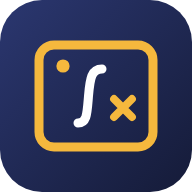
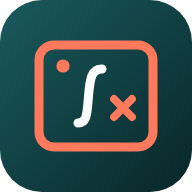
New colour theme: deep teal with coral
Claude-Session: https://claude.ai/code/session_01CqFkspLbgbr14JNBsM85ut

diff --git a/style.css b/style.css
@@ -5,31 +5,31 @@
 
 /* ---------- tokens ---------- */
 :root {
-  --bg: #f4f5f9; --panel: #ffffff; --panel2: #eef0f7; --ink: #161a2c; --muted: #5f6680; --line: #e2e5ef; --line2: #cfd4e3;
-  --side: #1c2547; --side2: #121832; --side-ink: #d3d9ef; --leaf: #f5b83d; --leaf-ink: #3b2600; --pri: #1c2547;
+  --bg: #f3f7f7; --panel: #ffffff; --panel2: #e9f1f1; --ink: #132326; --muted: #58706f; --line: #dde8e8; --line2: #c7d8d8;
+  --side: #0f3d40; --side2: #082628; --side-ink: #cfe6e4; --leaf: #ff7a5c; --leaf-ink: #3a0e02; --pri: #0f3d40;
   --accent: var(--leaf); --accent-ink: var(--leaf-ink);
   --warn-bg: #fef3c7; --warn-ink: #8a4b07; --danger: #b6412c;
   --fig: #ffffff; --radius: 16px; --r-sm: 10px;
-  --shadow-sm: 0 1px 2px rgb(17 22 44 / .05);
-  --shadow: 0 1px 2px rgb(17 22 44 / .04), 0 8px 24px -14px rgb(20 26 60 / .28);
-  --shadow-lift: 0 2px 4px rgb(17 22 44 / .05), 0 16px 32px -16px rgb(20 26 60 / .35);
+  --shadow-sm: 0 1px 2px rgb(10 36 38 / .05);
+  --shadow: 0 1px 2px rgb(10 36 38 / .04), 0 8px 24px -14px rgb(8 50 52 / .28);
+  --shadow-lift: 0 2px 4px rgb(10 36 38 / .05), 0 16px 32px -16px rgb(8 50 52 / .35);
   --serif: Fraunces, Georgia, serif; --sans: "DM Sans", system-ui, sans-serif;
   --tabbar: 64px;
   color-scheme: light;
 }
 @media (prefers-color-scheme: dark) {
   :root:not([data-theme="light"]) {
-    --bg: #10131f; --panel: #181c2d; --panel2: #212639; --ink: #e8eaf4; --muted: #9ba2bd; --line: #292f45; --line2: #363d57;
+    --bg: #0d1718; --panel: #142224; --panel2: #1b2d30; --ink: #e5f0ef; --muted: #93aead; --line: #24393b; --line2: #30494b;
     --warn-bg: #3d3214; --warn-ink: #f6d58a; --fig: #f8faf7; color-scheme: dark;
   }
 }
 @media (prefers-color-scheme: dark) {
   .lrow b, .tcard h3, .card h3 { filter: brightness(1.45) saturate(.9); }
-  button.dark { background: #33408a; border-color: #33408a; }
+  button.dark { background: #1b6b70; border-color: #1b6b70; }
   .tabbar button.on { color: var(--leaf); }
 }
 :root[data-theme="dark"] {
-  --bg: #10131f; --panel: #181c2d; --panel2: #212639; --ink: #e8eaf4; --muted: #9ba2bd; --line: #292f45; --line2: #363d57;
+  --bg: #0d1718; --panel: #142224; --panel2: #1b2d30; --ink: #e5f0ef; --muted: #93aead; --line: #24393b; --line2: #30494b;
   --warn-bg: #3d3214; --warn-ink: #f6d58a; --fig: #f8faf7; color-scheme: dark;
 }
 
@@ -43,9 +43,9 @@ button { cursor: pointer; border: 1px solid var(--line2); background: var(--pane
 button:hover { border-color: var(--pri); }
 button:disabled { opacity: .5; cursor: default; }
 button.primary { background: var(--leaf); color: var(--leaf-ink); border-color: var(--leaf); }
-button.primary:hover { background: #f8c860; border-color: #f8c860; }
+button.primary:hover { background: #ff9479; border-color: #ff9479; }
 button.dark { background: var(--pri); color: #fff; border-color: var(--pri); }
-button.dark:hover { background: #2a3666; }
+button.dark:hover { background: #17575b; }
 button.danger, .danger { color: var(--danger); }
 button.danger:hover { border-color: var(--danger); }
 button.link { border: none; background: none; padding: 4px 6px; color: var(--muted); font-weight: 500; }
@@ -68,10 +68,10 @@ aside { background: linear-gradient(175deg, var(--side), var(--side2)); color: #
 .brand h1 { margin: 0; font-size: 20px; line-height: 1.1; font-weight: 700; }
 .brand small { display: block; font-size: 12px; opacity: .65; margin-top: 2px; }
 #search { width: 100%; padding: 9px 12px; border-radius: var(--r-sm); border: 1px solid rgb(255 255 255 / .12); background: rgb(255 255 255 / .07); color: #fff; }
-#search::placeholder { color: #a8b1d6; }
-#search:focus { outline: none; border-color: var(--leaf); box-shadow: 0 0 0 3px rgb(245 184 61 / .3); }
+#search::placeholder { color: #9cc4c1; }
+#search:focus { outline: none; border-color: var(--leaf); box-shadow: 0 0 0 3px rgb(255 122 92 / .3); }
 #topics { display: flex; flex-direction: column; gap: 2px; }
-.nav-label { font-size: 11px; text-transform: uppercase; letter-spacing: .1em; color: #99a3cc; padding: 10px 12px 4px; }
+.nav-label { font-size: 11px; text-transform: uppercase; letter-spacing: .1em; color: #8dbab6; padding: 10px 12px 4px; }
 .node { display: contents; }
 .topic, .side-tools button, .more summary { display: flex; align-items: center; gap: 10px; width: 100%; text-align: left; background: none; border: 0;
   border-radius: var(--r-sm); color: var(--side-ink); padding: 8px 10px; font: 600 14.5px var(--sans); cursor: pointer; }
@@ -84,7 +84,7 @@ aside { background: linear-gradient(175deg, var(--side), var(--side2)); color: #
 .topic .ico, .side-tools span { width: 20px; text-align: center; font-size: 16px; flex: none; }
 .topic .nm { flex: 1; min-width: 0; }
 .topic .n { font-size: 12px; opacity: .6; font-weight: 500; }
-.topic.add { color: #a8b1d6; font-weight: 500; }
+.topic.add { color: #9cc4c1; font-weight: 500; }
 .side-tools { margin-top: auto; display: flex; flex-direction: column; gap: 2px; border-top: 1px solid rgb(255 255 255 / .1); padding-top: 10px; }
 .more { position: relative; }
 .more summary { list-style: none; }
@@ -179,7 +179,7 @@ a.card { color: inherit; text-decoration: none; cursor: pointer; }
 /* ---------- dialogs & forms ---------- */
 dialog { border: none; border-radius: 18px; padding: 0; background: var(--panel); color: var(--ink); width: min(1040px, calc(100vw - 24px));
   max-height: calc(100vh - 24px); box-shadow: 0 24px 64px rgb(0 0 0 / .32); }
-dialog::backdrop { background: rgb(10 12 28 / .55); backdrop-filter: blur(2px); }
+dialog::backdrop { background: rgb(4 20 22 / .55); backdrop-filter: blur(2px); }
 dialog.small { width: min(620px, calc(100vw - 24px)); }
 dialog.plan-dlg { width: min(760px, calc(100vw - 24px)); }
 .dlg-head { display: flex; align-items: flex-start; gap: 12px; padding: 18px 22px 12px; border-bottom: 1px solid var(--line); }
@@ -192,7 +192,7 @@ dialog.plan-dlg { width: min(760px, calc(100vw - 24px)); }
 .form label { display: grid; gap: 4px; font-weight: 600; font-size: .92rem; }
 .form small { font-weight: 400; color: var(--muted); }
 .form input[type=text], .form textarea, .form select, .blank-row input { padding: 9px 12px; border-radius: var(--r-sm); border: 1px solid var(--line2); background: var(--bg); font-weight: 400; }
-.form input[type=text]:focus, .form textarea:focus, .form select:focus, .blank-row input:focus { outline: none; border-color: var(--pri); box-shadow: 0 0 0 3px rgb(245 184 61 / .35); }
+.form input[type=text]:focus, .form textarea:focus, .form select:focus, .blank-row input:focus { outline: none; border-color: var(--pri); box-shadow: 0 0 0 3px rgb(255 122 92 / .35); }
 .form textarea { resize: vertical; min-height: 80px; }
 .row2 { display: grid; grid-template-columns: 1fr 1fr; gap: 14px; }
 .preview { background: var(--fig); border-radius: var(--r-sm); border: 1px solid var(--line); max-width: 360px; }
@@ -247,7 +247,7 @@ body.bot-open #bot-btn { display: none; }
 #bot-form textarea { flex: 1; resize: none; padding: 9px 12px; border-radius: var(--r-sm); border: 1px solid var(--line2); background: var(--bg); color: var(--ink); }
 
 /* ---------- small things ---------- */
-#toast { position: fixed; left: 50%; bottom: 24px; transform: translate(-50%, 140px); background: #161a2c; color: #fff; padding: 10px 18px;
+#toast { position: fixed; left: 50%; bottom: 24px; transform: translate(-50%, 140px); background: #132326; color: #fff; padding: 10px 18px;
   border-radius: 12px; transition: transform .25s; z-index: 50; max-width: calc(100vw - 32px); box-shadow: var(--shadow-lift); }
 #toast.show { transform: translate(-50%, 0); }
 #toast:empty { display: none; }
@@ -263,7 +263,7 @@ body.bot-open #bot-btn { display: none; }
 .pcard b { font-size: .95rem; line-height: 1.3; }
 .pcard small { color: var(--muted); font-size: .78rem; }
 .pcard .tag { position: absolute; top: 8px; right: 8px; font-size: .72rem; font-weight: 700; padding: 2px 8px; border-radius: 999px;
-  background: rgb(255 255 255 / .92); color: #161a2c; box-shadow: var(--shadow-sm); }
+  background: rgb(255 255 255 / .92); color: #132326; box-shadow: var(--shadow-sm); }
 .pcard .tag.mine { left: 8px; right: auto; background: var(--leaf); color: var(--leaf-ink); }
 .strip { display: grid; grid-auto-flow: column; grid-auto-columns: minmax(170px, 210px); gap: 12px; overflow-x: auto; padding-bottom: 6px; scroll-snap-type: x mandatory; }
 .strip .pcard { scroll-snap-align: start; }
@@ -312,7 +312,7 @@ body.viewing { overflow: hidden; }
   .appbar .brand { padding: 0; flex: none; }
   .appbar .brand b { font: 700 17px var(--serif); }
   #msearch { flex: 1; min-width: 0; padding: 8px 12px; border-radius: 999px; border: 1px solid rgb(255 255 255 / .14); background: rgb(255 255 255 / .08); color: #fff; }
-  #msearch::placeholder { color: #a8b1d6; }
+  #msearch::placeholder { color: #9cc4c1; }
   /* the sidebar becomes a drawer */
   aside { position: fixed; z-index: 45; top: 0; bottom: 0; left: 0; width: min(320px, 86vw); height: auto; transform: translateX(-102%);
     transition: transform .22s ease; box-shadow: 20px 0 40px -20px rgb(0 0 0 / .5); padding-bottom: calc(var(--tabbar) + 10px); }
@@ -327,7 +327,7 @@ body.viewing { overflow: hidden; }
     font-size: 11.5px; font-weight: 600; color: var(--muted); }
   .tabbar svg { width: 22px; height: 22px; fill: none; stroke: currentColor; stroke-width: 1.8; stroke-linejoin: round; stroke-linecap: round; }
   .tabbar button.on { color: var(--pri); }
-  .tabbar button.on svg { fill: rgb(245 184 61 / .45); }
+  .tabbar button.on svg { fill: rgb(255 122 92 / .45); }
   .wide-only { display: none !important; }
   .bar { margin-bottom: 10px; }
   .tcard { padding: 13px 15px; }

diff --git a/index.html b/index.html
@@ -5,7 +5,7 @@
   <meta name="viewport" content="width=device-width, initial-scale=1">
   <title>Specialist Study</title>
   <meta name="description" content="Photos of your Specialist Maths work, sorted into topics automatically, with notes underneath.">
-  <meta name="theme-color" content="#1c2547">
+  <meta name="theme-color" content="#0f3d40">
   <link rel="preconnect" href="https://fonts.googleapis.com">
   <link href="https://fonts.googleapis.com/css2?family=DM+Sans:wght@400;500;700&family=Fraunces:opsz,wght@9..144,500;9..144,600;9..144,700&display=swap" rel="stylesheet">
   <link rel="stylesheet" href="vendor/katex/katex.min.css">

diff --git a/sw.js b/sw.js
@@ -1,7 +1,7 @@
 // Service worker: lets the installed app open with no internet.
 // App files: network first, saved copy when offline. Photos never change, so once seen they come from the saved copy.
 // Bump CACHE on each release.
-const CACHE = 'specialist-study-v1';
+const CACHE = 'specialist-study-v2';
 const FILES = ['./', 'index.html', 'style.css', 'app.js', 'lib.js', 'manifest.webmanifest', 'icons/icon.svg', 'icons/icon-192.png', 'icons/icon-512.png',
   'vendor/katex/katex.min.js', 'vendor/katex/katex.min.css', 'vendor/katex/auto-render.min.js'];
 
